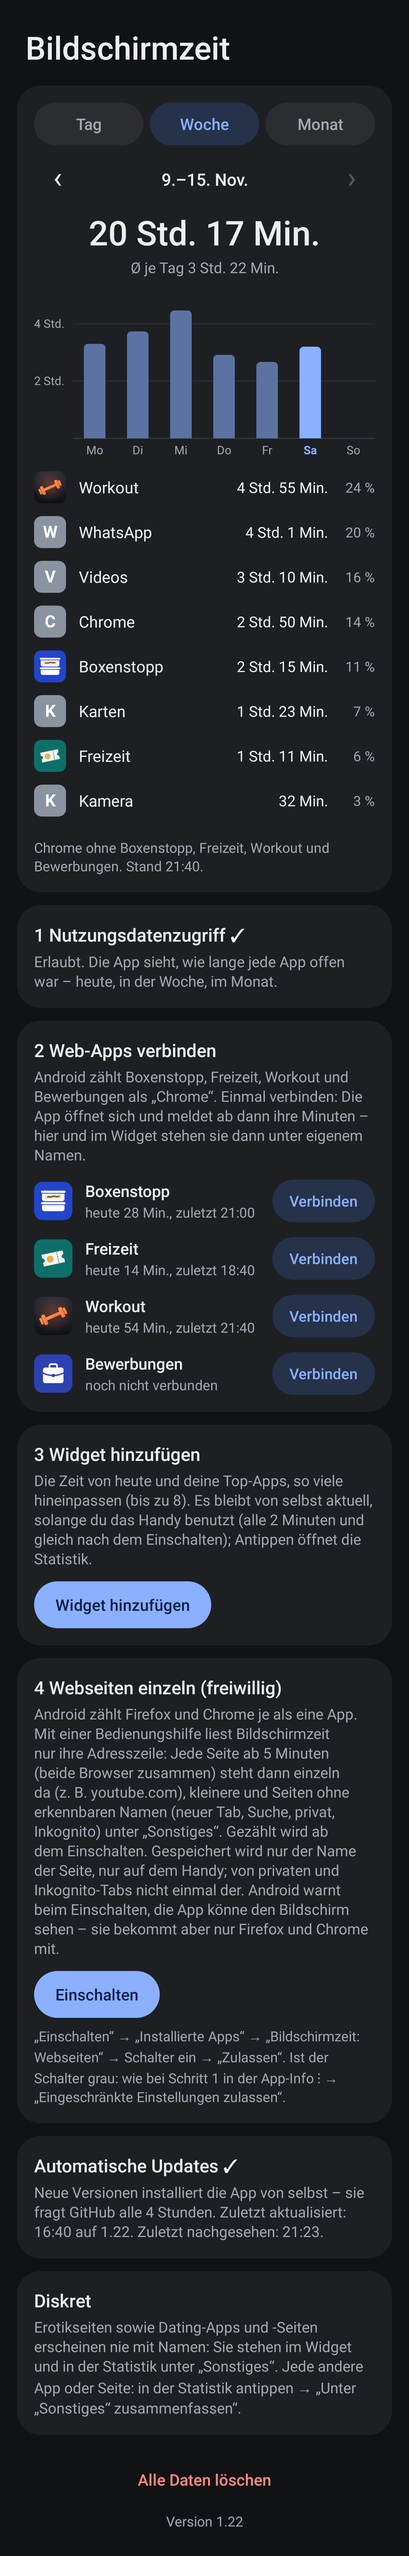
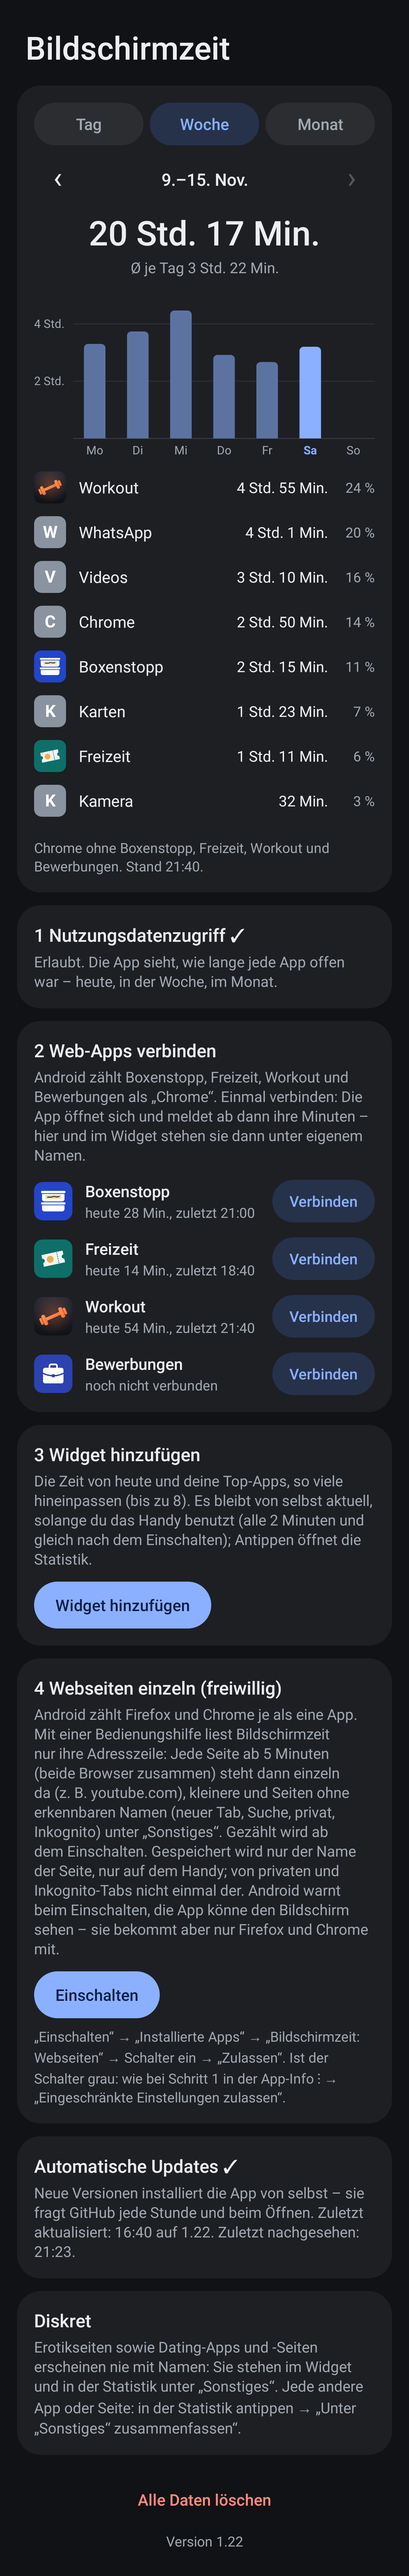
Updates: GitHub jede Stunde fragen statt alle 4 Stunden (v16)
Tobi: „Jo app aktualisiert sich ja nur alle vier Stunden“. Der
Hintergrund (WorkManager, alle 15 Minuten) fragt GitHub jetzt höchstens
jede Stunde – 24 Anfragen am Tag, weit unter den 60 je Stunde ohne
Token. Beim Öffnen weiter höchstens alle 10 Minuten; was das Öffnen
gefunden hat, installiert der nächste Lauf, sobald die App zu ist. Die
Karte sagt es so („jede Stunde und beim Öffnen“, „kommt bald von
selbst, wenn die App zu ist – oder jetzt“).

Tests: UpdateRegelnTest.githubHoechstensJedeStunde, die wartende Karte,
SelbstupdateTest.githubHoechstensJedeStundeBeimOeffnenAlleZehnMinuten
(gegen v15 rot). 234 JUnit/Robolectric grün, Lint ohne Fehler.

Claude-Session: https://claude.ai/code/session_01T7EkPKmbwzuumuawqyKHqq

diff --git a/android/app/src/test/kotlin/de/finanzdienste/bildschirmzeit/UpdateRegelnTest.kt b/android/app/src/test/kotlin/de/finanzdienste/bildschirmzeit/UpdateRegelnTest.kt
@@ -76,13 +76,14 @@ class UpdateRegelnTest {
         assertFalse(freigabe(8).copy(groesse = NeueVersion.HOECHSTENS_BYTES + 1).installierbar)
     }
 
+    /** Tobi, 19.11.: „Jo app aktualisiert sich ja nur alle vier Stunden“ – seit v16 jede Stunde. */
     @Test
-    fun githubHoechstensAlleVierStunden() {
+    fun githubHoechstensJedeStunde() {
         assertTrue(UpdateRegeln.githubFaellig(0, jetzt, UpdateRegeln.FRAGEN_MS))
-        assertFalse(UpdateRegeln.githubFaellig(jetzt - 3 * stunde, jetzt, UpdateRegeln.FRAGEN_MS))
-        assertTrue(UpdateRegeln.githubFaellig(jetzt - 4 * stunde, jetzt, UpdateRegeln.FRAGEN_MS))
-        // Höchstens 6 Anfragen am Tag aus dem Hintergrund – weit unter den 60 je Stunde ohne Token.
-        assertEquals(6L, 24 * stunde / UpdateRegeln.FRAGEN_MS)
+        assertFalse(UpdateRegeln.githubFaellig(jetzt - 59 * 60_000L, jetzt, UpdateRegeln.FRAGEN_MS))
+        assertTrue(UpdateRegeln.githubFaellig(jetzt - stunde, jetzt, UpdateRegeln.FRAGEN_MS))
+        // Höchstens 24 Anfragen am Tag aus dem Hintergrund – weit unter den 60 je Stunde ohne Token.
+        assertEquals(24L, 24 * stunde / UpdateRegeln.FRAGEN_MS)
     }
 
     @Test
@@ -187,6 +188,11 @@ class UpdateRegelnTest {
         // Ohne Prüfsumme bei GitHub: nicht von selbst, nur der Weg über den Browser.
         val ohne = UpdateRegeln.anzeige(lage(freigabe = freigabe(8).copy(sha256 = null)))
         assertEquals(UpdateKnopf.BROWSER, ohne.knopf)
+
+        // Bekannt und still: kommt, sobald die App zu ist (der nächste Lauf), oder jetzt über den Knopf.
+        val wartet = UpdateRegeln.anzeige(lage())
+        assertEquals(UpdateKnopf.INSTALLIEREN, wartet.knopf)
+        assertTrue(wartet.text, wartet.text.startsWith("Version 1.8 ist da (du hast 1.7). Sie kommt bald von selbst, wenn die App zu ist – oder jetzt."))
 
         // Unter Android 12 fragt Android jedes Mal.
         val alt = UpdateRegeln.anzeige(lage().copy(still = false))
@@ -312,7 +318,7 @@ class UpdateRegelnTest {
         val a = UpdateRegeln.anzeige(lage(freigabe = freigabe(7)))
         assertEquals("Automatische Updates ✓", a.titel)
         assertNull(a.knopf)
-        assertEquals("Neue Versionen installiert die App von selbst – sie fragt GitHub alle 4 Stunden. Zuletzt nachgesehen: 08:43.", a.text)
+        assertEquals("Neue Versionen installiert die App von selbst – sie fragt GitHub jede Stunde und beim Öffnen. Zuletzt nachgesehen: 08:43.", a.text)
         val danach = UpdateRegeln.anzeige(lage(freigabe = freigabe(7), erfolg = 7))
         assertTrue(danach.text, danach.text.contains("Zuletzt aktualisiert: 08:00 auf 1.7."))
         // Ein alter Fehler zu einer Fassung, die nicht neuer ist, zeigt nichts mehr.

diff --git a/android/app/src/main/kotlin/de/finanzdienste/bildschirmzeit/Selbstupdate.kt b/android/app/src/main/kotlin/de/finanzdienste/bildschirmzeit/Selbstupdate.kt
@@ -131,8 +131,13 @@ data class UpdateLage(
 
 /** Die Regeln fürs Update – rein, getestet in UpdateRegelnTest. */
 object UpdateRegeln {
-    /** GitHub höchstens alle 4 Stunden fragen (ohne Token 60 Anfragen je Stunde und Adresse – beim Mobilfunk teilen sich viele eine). */
-    const val FRAGEN_MS = 4 * 3_600_000L
+    /**
+     * GitHub höchstens jede Stunde fragen: 24 Anfragen am Tag, weit unter den 60 je Stunde
+     * und Adresse ohne Token (beim Mobilfunk teilen sich viele eine; trifft es die Grenze,
+     * klappt es eben in der nächsten Stunde). Bis v15 alle 4 Stunden – Tobi, 19.11.:
+     * „Jo app aktualisiert sich ja nur alle vier Stunden“.
+     */
+    const val FRAGEN_MS = 3_600_000L
 
     /** Beim Öffnen der App höchstens alle 10 Minuten. */
     const val FRAGEN_APP_MS = 10 * 60_000L
@@ -372,14 +377,14 @@ object UpdateRegeln {
             !l.still -> UpdateAnzeige("Neue Version verfügbar", ist + "„Neue Version installieren“, dann „Aktualisieren“ – deine Einstellungen bleiben.", UpdateKnopf.INSTALLIEREN)
             else -> UpdateAnzeige(
                 "Neue Version verfügbar",
-                ist + "Sie kommt in den nächsten Stunden von selbst – oder jetzt. Die App schließt sich dabei kurz; Widget und Verbindungen bleiben.",
+                ist + "Sie kommt bald von selbst, wenn die App zu ist – oder jetzt. Die App schließt sich dabei kurz; Widget und Verbindungen bleiben.",
                 UpdateKnopf.INSTALLIEREN,
             )
         }
     }
 
     private fun anText(l: UpdateLage): String {
-        val teile = mutableListOf("Neue Versionen installiert die App von selbst – sie fragt GitHub alle 4 Stunden.")
+        val teile = mutableListOf("Neue Versionen installiert die App von selbst – sie fragt GitHub jede Stunde und beim Öffnen.")
         if (l.erfolg > 0 && l.erfolg == l.eigene && l.erfolgUm > 0) {
             teile += "Zuletzt aktualisiert: ${zeitpunktText(l.erfolgUm, l.jetzt, l.zone)} auf ${l.eigeneName}."
         }
@@ -553,7 +558,7 @@ object Selbstupdate {
     }
 
     /**
-     * Der WorkManager-Lauf: GitHub höchstens alle 4 Stunden; ist eine neuere
+     * Der WorkManager-Lauf: GitHub höchstens jede Stunde; ist eine neuere
      * Fassung da und alles eingerichtet, ohne Rückfrage installieren. Nicht,
      * solange die App vorn ist (die Installation schließt sie), nicht während
      * einer laufenden Installation, nicht vor Ablauf der Wartezeit nach einem

diff --git a/android/app/src/test/kotlin/de/finanzdienste/bildschirmzeit/SelbstupdateTest.kt b/android/app/src/test/kotlin/de/finanzdienste/bildschirmzeit/SelbstupdateTest.kt
@@ -228,17 +228,18 @@ class SelbstupdateTest {
     }
 
     @Test
-    fun githubHoechstensAlleVierStundenBeimOeffnenAlleZehnMinuten() {
+    fun githubHoechstensJedeStundeBeimOeffnenAlleZehnMinuten() {
         darf(false)
         Selbstupdate.imHintergrund(kontext, t)
-        Selbstupdate.imHintergrund(kontext, t + stunde)
-        Selbstupdate.imHintergrund(kontext, t + 3 * stunde + 59 * minute)
+        Selbstupdate.imHintergrund(kontext, t + 15 * minute)
+        Selbstupdate.imHintergrund(kontext, t + 59 * minute)
         assertEquals(1, gefragt)
-        Selbstupdate.imHintergrund(kontext, t + 4 * stunde)
+        // Bis v15 erst nach 4 Stunden (Tobi, 19.11.: „Jo app aktualisiert sich ja nur alle vier Stunden“).
+        Selbstupdate.imHintergrund(kontext, t + stunde)
         assertEquals(2, gefragt)
-        Selbstupdate.pruefenFuerApp(kontext, t + 4 * stunde + 9 * minute)
+        Selbstupdate.pruefenFuerApp(kontext, t + stunde + 9 * minute)
         assertEquals(2, gefragt)
-        Selbstupdate.pruefenFuerApp(kontext, t + 4 * stunde + 10 * minute)
+        Selbstupdate.pruefenFuerApp(kontext, t + stunde + 10 * minute)
         assertEquals(3, gefragt)
     }
 

diff --git a/android/app/src/main/kotlin/de/finanzdienste/bildschirmzeit/Aktualisierung.kt b/android/app/src/main/kotlin/de/finanzdienste/bildschirmzeit/Aktualisierung.kt
@@ -122,7 +122,7 @@ object Aktualisierung {
         context.getSystemService(PowerManager::class.java)?.isInteractive ?: true
 }
 
-/** Der 15-Minuten-Lauf: das Widget, danach (höchstens alle 4 Stunden bei GitHub) das Update. */
+/** Der 15-Minuten-Lauf: das Widget, danach (höchstens jede Stunde bei GitHub) das Update. */
 class WidgetArbeit(context: Context, parameter: WorkerParameters) : Worker(context, parameter) {
     override fun doWork(): Result {
         try {

diff --git a/README.md b/README.md
@@ -184,7 +184,7 @@ Einmal, alles am Handy:
    installieren“ für Bildschirmzeit → Schalter („Diese Quelle zulassen“,
    bei Android selbst „Dieser Quelle vertrauen“) ein → zurück. Die Karte
    zeigt dann „Automatische Updates ✓“. Ab da installiert die App neue
-   Versionen selbst (sie fragt GitHub alle 4 Stunden; die App schließt sich
+   Versionen selbst (sie fragt GitHub jede Stunde; die App schließt sich
    dabei kurz, Einstellungen, Verbindungen und Widget bleiben). Will Android
    ein Update doch einmal bestätigt haben, steht dort „Neue Version
    installieren“ → antippen → „Aktualisieren“. Klappt es nicht, sagt die
@@ -478,9 +478,15 @@ Update, keine Rechte zum Installieren) und ist jetzt grün.
 oft erst nach dem Ausschalten der Automatischen Sperre).
 
 **Jetzt** (`Selbstupdate.kt`, Regeln in `UpdateRegeln`): Der
-WorkManager-Lauf fragt GitHub höchstens alle 4 Stunden (`releases/latest`,
-ohne Token 60 Anfragen je Stunde und Adresse – im Mobilfunk teilen sich
-viele eine Adresse), das Öffnen der App höchstens alle 10 Minuten. Ist das
+WorkManager-Lauf (alle 15 Minuten) fragt GitHub höchstens jede Stunde
+(`releases/latest`, ohne Token 60 Anfragen je Stunde und Adresse – im
+Mobilfunk teilen sich viele eine Adresse; trifft es die Grenze, klappt es in
+der nächsten Stunde), das Öffnen der App höchstens alle 10 Minuten. Bis v15
+fragte der Hintergrund nur alle 4 Stunden – Tobi, 19.11.: „Jo app
+aktualisiert sich ja nur alle vier Stunden“. Hat das Öffnen die neue Fassung
+schon gefunden, installiert sie der nächste Lauf, sobald die App zu ist (die
+Karte: „Sie kommt bald von selbst, wenn die App zu ist – oder jetzt.“), der
+Knopf „Neue Version installieren“ sofort. Ist das
 Release neuer und Schritt 9 eingerichtet, lädt die App die APK, prüft sie
 und installiert sie über eine `PackageInstaller`-Sitzung – ohne Rückfrage.
 Nicht, solange die App offen ist (die Installation schließt sie), nicht
@@ -596,15 +602,15 @@ Update-Karte. Bis v6 gab es ihn unter 150 dp Höhe und im 2×2 nicht. Was es kos
 Zeichnen ein Blick in den eigenen Speicher, nichts übers Netz. Vorher stand
 das nur auf der Karte (Prüfer, 15.11.).
 
-**Was es kostet:** höchstens 6 Anfragen an GitHub am Tag aus dem
-Hintergrund (je rund 4 KB), dazu beim Öffnen der App; die APK (rund
+**Was es kostet:** höchstens 24 Anfragen an GitHub am Tag aus dem
+Hintergrund (je rund 4 KB, also unter 100 KB), dazu beim Öffnen der App; die APK (rund
 0,75 MB) einmal je Release.
 
 **Geprüft:** `UpdateRegelnTest` (Prüfsumme, Fassung, Wartezeit, Status →
 Text, die Karte, wann das Widget Bescheid sagt), `SelbstupdateTest` (der
 ganze Weg auf einem nachgebauten Gerät: installiert ohne Rückfrage, falsche Prüfsumme →
 nichts, ohne Erlaubnis kein Download, nie gleich alt oder älter, GitHub
-höchstens alle 4 Stunden, kein zweites Update während eines laufenden,
+höchstens jede Stunde, kein zweites Update während eines laufenden,
 Wartezeit nach Fehlern, Rückfrage im Hintergrund verworfen und im
 Vordergrund nur nach dem Knopf gezeigt, Androids „abgebrochen“ nach dem
 eigenen Verwerfen zählt nicht, Tobis „Abbrechen“ im Dialog schon, Karte →
